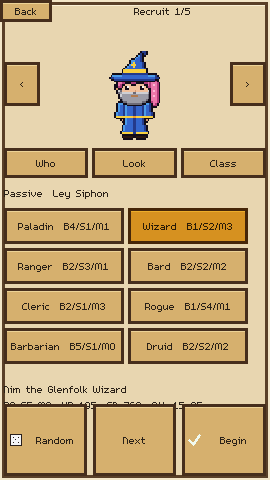
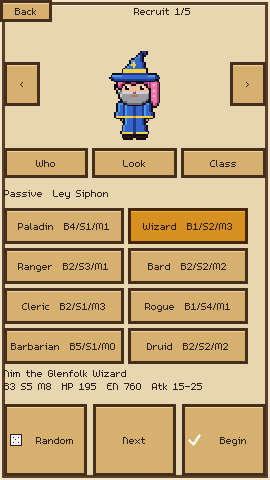
Wrap skill, creator, and map text in v0.2.1.
The skill card grows with the description, and the creator stats and map blurb stay inside their panels instead of clipping.

diff --git a/README.md b/README.md
@@ -55,12 +55,12 @@ Native 270×480 captures of the production art:
 [`export_presets.cfg`](export_presets.cfg) has a debug Android preset locked to portrait (`screen/orientation=1`) and arm64-v8a, plus a Linux preset. The project setting `display/window/handheld/orientation` is portrait.
 
 ```bash
-godot --headless --export-debug Android build/paladins-0.2.0-debug.apk
+godot --headless --export-debug Android build/paladins-0.2.1-debug.apk
 ```
 
 The export needs the Godot 4.7.2 Android templates (installed into `android/build`, which is gitignored), a `.build_version` of `4.7.2.stable`, Android SDK 36, build-tools 36.1.0, NDK 29.0.14206865, and a JDK. The project enables ETC2/ASTC import, which the Android exporter requires.
 
-The published debug APK is [v0.2.0](https://github.com/thegliffy/paladins-of-pen-and-paper/releases/tag/v0.2.0): [paladins-0.2.0-debug.apk](https://github.com/thegliffy/paladins-of-pen-and-paper/releases/download/v0.2.0/paladins-0.2.0-debug.apk). It is arm64-v8a, portrait, package `com.thegliffy.paladinspenpaper`, and includes the eight classes, passives, the threat raffle, the party of five, inspect-to-cast, and the production sprites. v0.1.0 is the earlier portrait slice and is left as-is.
+The published debug APK is [v0.2.1](https://github.com/thegliffy/paladins-of-pen-and-paper/releases/tag/v0.2.1): [paladins-0.2.1-debug.apk](https://github.com/thegliffy/paladins-of-pen-and-paper/releases/download/v0.2.1/paladins-0.2.1-debug.apk). It is arm64-v8a, portrait, package `com.thegliffy.paladinspenpaper`, version code 3. Skill descriptions, the creator stat line, and map place text wrap inside their panels. v0.2.0 and v0.1.0 are left as-is.
 
 ## Where numbers live
 
@@ -101,4 +101,4 @@ A level 1 hero is `class + persona + race + 2` on Body, Senses, and Mind. HP is 
 - Audio is generated tones. There is no music.
 - Combat, the creator, and the map use the production sprite pack. The title screen still uses the meadow backdrop from `art/`.
 
-A basic attack's waits are 0.25 s wind-up, 0.20 s to the hit, and a 0.50 s HP tween (0.95 s). Punch and the red blink run inside that tween. On the machine that captured the screenshots, one measured attack completed in 806 ms, inside the 0.8–1.2 s gate.
+A basic attack's waits are 0.25 s wind-up, 0.20 s to the hit, and a 0.50 s HP tween (0.95 s). Punch and the red blink run inside that tween. On the machine that captured the screenshots, one measured attack completed in 810 ms, inside the 0.8–1.2 s gate.
